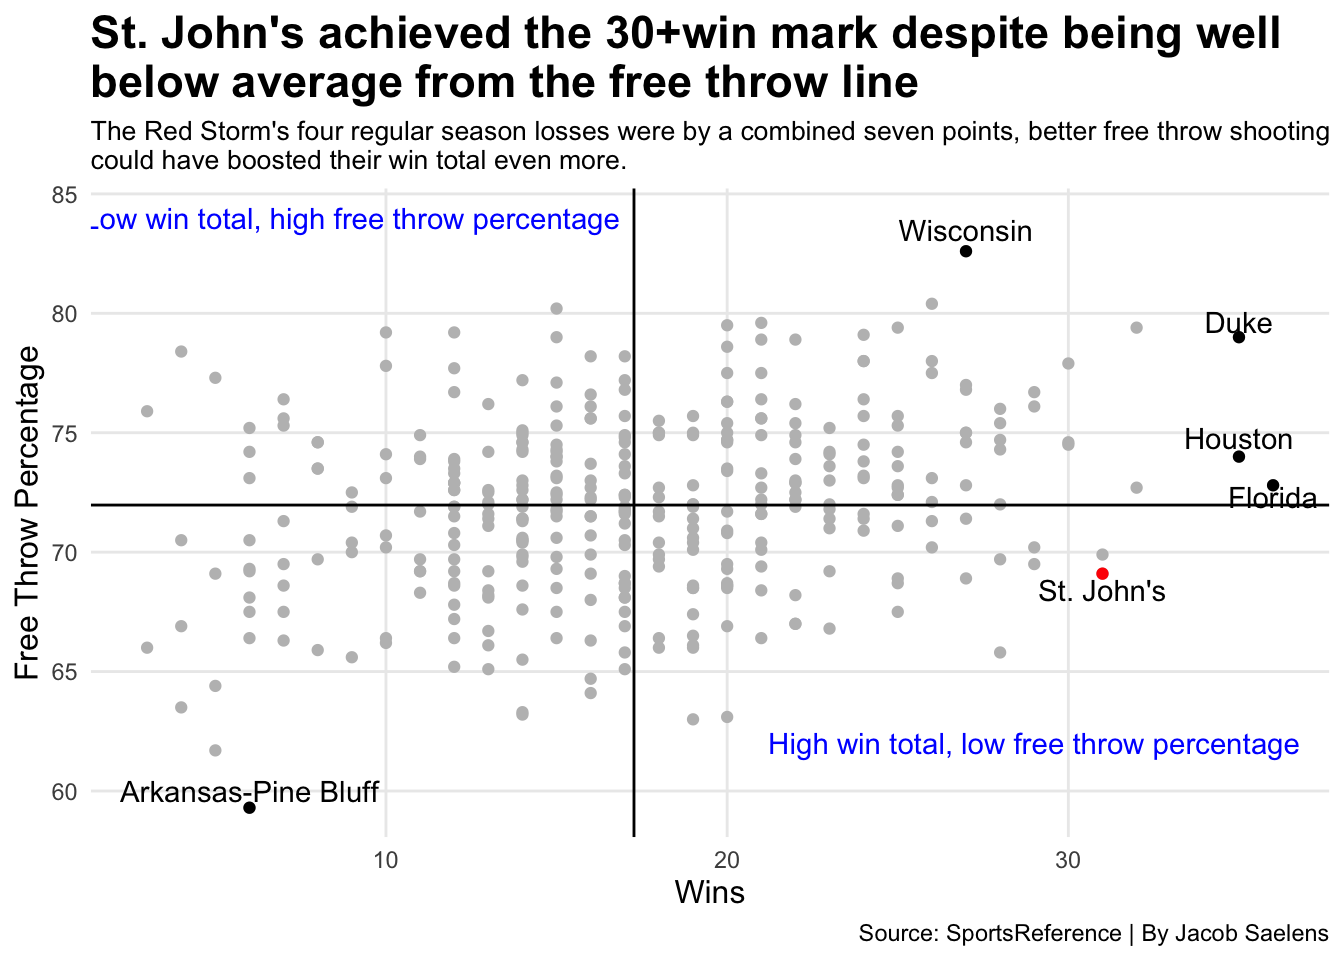
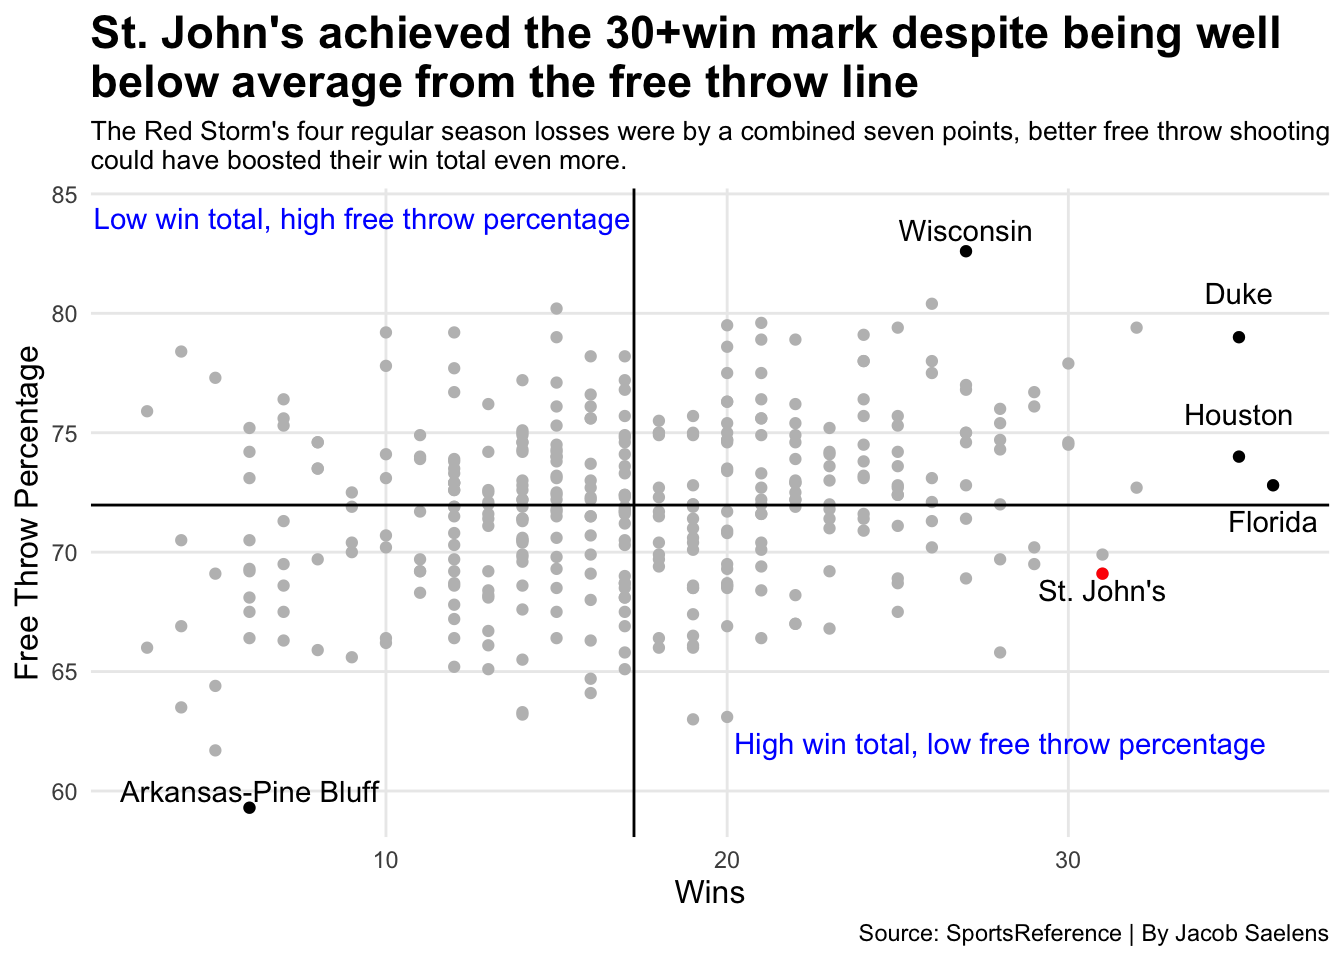
another

diff --git a/posts/st-johns-basketball-offense-defense/index.html b/posts/st-johns-basketball-offense-defense/index.html
@@ -227,13 +227,13 @@ pre > code.sourceCode > span > a:first-child::before { text-decoration: underlin
 <span id="cb1-23"><a href="#cb1-23" aria-hidden="true" tabindex="-1"></a>  <span class="fu">geom_vline</span>(<span class="at">xintercept =</span> <span class="fl">17.26923</span>) <span class="sc">+</span></span>
 <span id="cb1-24"><a href="#cb1-24" aria-hidden="true" tabindex="-1"></a>  <span class="fu">geom_hline</span>(<span class="at">yintercept =</span> <span class="fl">0.7197198</span> <span class="sc">*</span> <span class="dv">100</span>) <span class="sc">+</span></span>
 <span id="cb1-25"><a href="#cb1-25" aria-hidden="true" tabindex="-1"></a>  <span class="fu">geom_text</span>(<span class="fu">aes</span>(<span class="at">x=</span><span class="dv">27</span>, <span class="at">y=</span><span class="fl">83.50</span>, <span class="at">label=</span><span class="st">"Wisconsin"</span>), <span class="at">color=</span><span class="st">"black"</span>) <span class="sc">+</span></span>
-<span id="cb1-26"><a href="#cb1-26" aria-hidden="true" tabindex="-1"></a>  <span class="fu">geom_text</span>(<span class="fu">aes</span>(<span class="at">x=</span><span class="dv">36</span>, <span class="at">y=</span><span class="fl">72.3</span>, <span class="at">label=</span><span class="st">"Florida"</span>), <span class="at">color=</span><span class="st">"black"</span>) <span class="sc">+</span></span>
-<span id="cb1-27"><a href="#cb1-27" aria-hidden="true" tabindex="-1"></a>  <span class="fu">geom_text</span>(<span class="fu">aes</span>(<span class="at">x=</span><span class="dv">35</span>, <span class="at">y=</span><span class="fl">79.65</span>, <span class="at">label=</span><span class="st">"Duke"</span>), <span class="at">color=</span><span class="st">"black"</span>) <span class="sc">+</span></span>
-<span id="cb1-28"><a href="#cb1-28" aria-hidden="true" tabindex="-1"></a>  <span class="fu">geom_text</span>(<span class="fu">aes</span>(<span class="at">x=</span><span class="dv">35</span>, <span class="at">y=</span><span class="fl">74.77</span>, <span class="at">label=</span><span class="st">"Houston"</span>), <span class="at">color=</span><span class="st">"black"</span>) <span class="sc">+</span></span>
+<span id="cb1-26"><a href="#cb1-26" aria-hidden="true" tabindex="-1"></a>  <span class="fu">geom_text</span>(<span class="fu">aes</span>(<span class="at">x=</span><span class="dv">36</span>, <span class="at">y=</span><span class="fl">71.3</span>, <span class="at">label=</span><span class="st">"Florida"</span>), <span class="at">color=</span><span class="st">"black"</span>) <span class="sc">+</span></span>
+<span id="cb1-27"><a href="#cb1-27" aria-hidden="true" tabindex="-1"></a>  <span class="fu">geom_text</span>(<span class="fu">aes</span>(<span class="at">x=</span><span class="dv">35</span>, <span class="at">y=</span><span class="fl">80.85</span>, <span class="at">label=</span><span class="st">"Duke"</span>), <span class="at">color=</span><span class="st">"black"</span>) <span class="sc">+</span></span>
+<span id="cb1-28"><a href="#cb1-28" aria-hidden="true" tabindex="-1"></a>  <span class="fu">geom_text</span>(<span class="fu">aes</span>(<span class="at">x=</span><span class="dv">35</span>, <span class="at">y=</span><span class="fl">75.77</span>, <span class="at">label=</span><span class="st">"Houston"</span>), <span class="at">color=</span><span class="st">"black"</span>) <span class="sc">+</span></span>
 <span id="cb1-29"><a href="#cb1-29" aria-hidden="true" tabindex="-1"></a>  <span class="fu">geom_text</span>(<span class="fu">aes</span>(<span class="at">x=</span><span class="dv">31</span>, <span class="at">y=</span><span class="fl">68.40</span>, <span class="at">label=</span><span class="st">"St. John's"</span>), <span class="at">color=</span><span class="st">"black"</span>) <span class="sc">+</span></span>
 <span id="cb1-30"><a href="#cb1-30" aria-hidden="true" tabindex="-1"></a>  <span class="fu">geom_text</span>(<span class="fu">aes</span>(<span class="at">x=</span><span class="dv">6</span>, <span class="at">y=</span><span class="dv">60</span>, <span class="at">label=</span><span class="st">"Arkansas-Pine Bluff"</span>), <span class="at">color=</span><span class="st">"black"</span>) <span class="sc">+</span></span>
-<span id="cb1-31"><a href="#cb1-31" aria-hidden="true" tabindex="-1"></a>  <span class="fu">geom_text</span>(<span class="fu">aes</span>(<span class="at">x=</span><span class="dv">29</span>, <span class="at">y=</span><span class="dv">62</span>, <span class="at">label=</span><span class="st">"High win total, low free throw percentage"</span>), <span class="at">color=</span><span class="st">"blue"</span>) <span class="sc">+</span></span>
-<span id="cb1-32"><a href="#cb1-32" aria-hidden="true" tabindex="-1"></a>  <span class="fu">geom_text</span>(<span class="fu">aes</span>(<span class="at">x=</span><span class="dv">9</span>, <span class="at">y=</span><span class="dv">84</span>, <span class="at">label=</span><span class="st">"Low win total, high free throw percentage"</span>), <span class="at">color=</span><span class="st">"blue"</span>) <span class="sc">+</span></span>
+<span id="cb1-31"><a href="#cb1-31" aria-hidden="true" tabindex="-1"></a>  <span class="fu">geom_text</span>(<span class="fu">aes</span>(<span class="at">x=</span><span class="dv">28</span>, <span class="at">y=</span><span class="dv">62</span>, <span class="at">label=</span><span class="st">"High win total, low free throw percentage"</span>), <span class="at">color=</span><span class="st">"blue"</span>) <span class="sc">+</span></span>
+<span id="cb1-32"><a href="#cb1-32" aria-hidden="true" tabindex="-1"></a>  <span class="fu">geom_text</span>(<span class="fu">aes</span>(<span class="at">x=</span><span class="fl">9.3</span>, <span class="at">y=</span><span class="dv">84</span>, <span class="at">label=</span><span class="st">"Low win total, high free throw percentage"</span>), <span class="at">color=</span><span class="st">"blue"</span>) <span class="sc">+</span></span>
 <span id="cb1-33"><a href="#cb1-33" aria-hidden="true" tabindex="-1"></a>  <span class="fu">labs</span>(</span>
 <span id="cb1-34"><a href="#cb1-34" aria-hidden="true" tabindex="-1"></a>    <span class="at">x=</span><span class="st">"Wins"</span>, </span>
 <span id="cb1-35"><a href="#cb1-35" aria-hidden="true" tabindex="-1"></a>    <span class="at">y=</span><span class="st">"Free Throw Percentage"</span>, </span>

diff --git a/index.html b/index.html
@@ -205,7 +205,7 @@ window.Quarto = {
 
 <div class="quarto-listing quarto-listing-container-default" id="listing-listing">
 <div class="list quarto-listing-default">
-<div class="quarto-post image-right" data-index="0" data-categories="ncaa,basketball,marchmadness,bigeast,stjohns,pitino,offense,defense" data-listing-date-sort="1713070800000" data-listing-file-modified-sort="1744665713295" data-listing-date-modified-sort="NaN" data-listing-reading-time-sort="7" data-listing-word-count-sort="1227">
+<div class="quarto-post image-right" data-index="0" data-categories="ncaa,basketball,marchmadness,bigeast,stjohns,pitino,offense,defense" data-listing-date-sort="1713070800000" data-listing-file-modified-sort="1744666130220" data-listing-date-modified-sort="NaN" data-listing-reading-time-sort="7" data-listing-word-count-sort="1227">
 <div class="thumbnail">
 <p><a href="./posts/st-johns-basketball-offense-defense/index.html" class="no-external"></a></p><a href="./posts/st-johns-basketball-offense-defense/index.html" class="no-external">
 <p><img loading="lazy" src="./posts/st-johns-basketball-offense-defense/image.png" class="thumbnail-image"></p>
